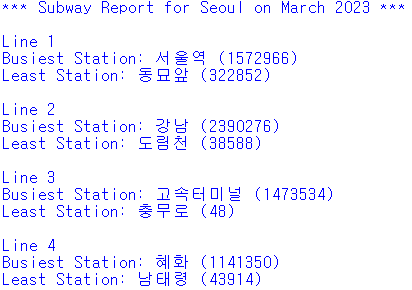
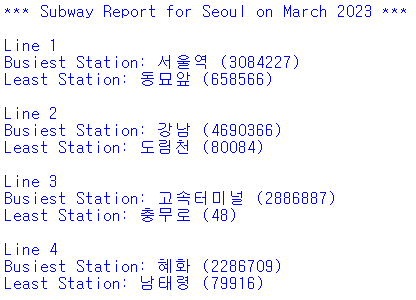
revised

diff --git a/Q4/q4.py b/Q4/q4.py
@@ -10,8 +10,9 @@ def main():
         for row in data:
             if row[1] == line:
                 row[4] = float(row[4])
-                if mx < row[4]:
-                    mx = row[4]
+                row[5] = float(row[5])
+                if mx < row[4]+row[5]:
+                    mx = row[4]+row[5]
                     station_mx = row[3]
         f.close()
         print("Busiest Station: %s (%1d)"%(station_mx,mx))
@@ -25,8 +26,9 @@ def main():
         for row in data:
             if row[1] == line:
                 row[4] = float(row[4])
-                if mn > row[4]:
-                    mn = row[4]
+                row[5] = float(row[5])
+                if mn > row[4]+row[5]:
+                    mn = row[4]+row[5]
                     station_mn = row[3]
         f.close()
         print("Least Station: %s (%1d)"%(station_mn,mn))

diff --git a/Q3/q3.py b/Q3/q3.py
@@ -9,7 +9,8 @@ def main():
         for row in data:
             if row[1] == line:
                 row[4] = float(row[4])
-                hap += row[4]
+                row[5] = float(row[5])
+                hap = hap+row[4]+row[5]
         f.close()
         return hap
 
